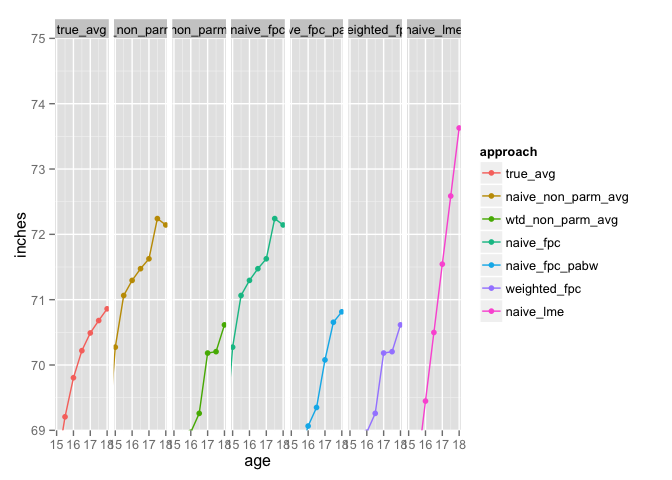
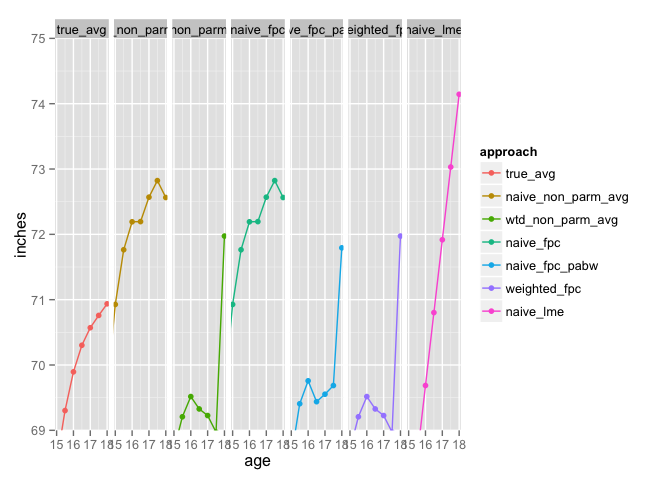
fpca.face knots from 29 to 26 b/c helix balks

diff --git a/readMe.md b/readMe.md
@@ -117,9 +117,9 @@ round(results,2)
 
 ```
 ##   naive_non_parm_avg wtd_non_parm_avg naive_fpc naive_fpc_pabw
-## 1               0.93              0.3      0.93           0.26
+## 1                1.3              0.5       1.3           0.36
 ##   weighted_fpc naive_lme
-## 1          0.3      0.75
+## 1          0.5      0.84
 ```
 
 
